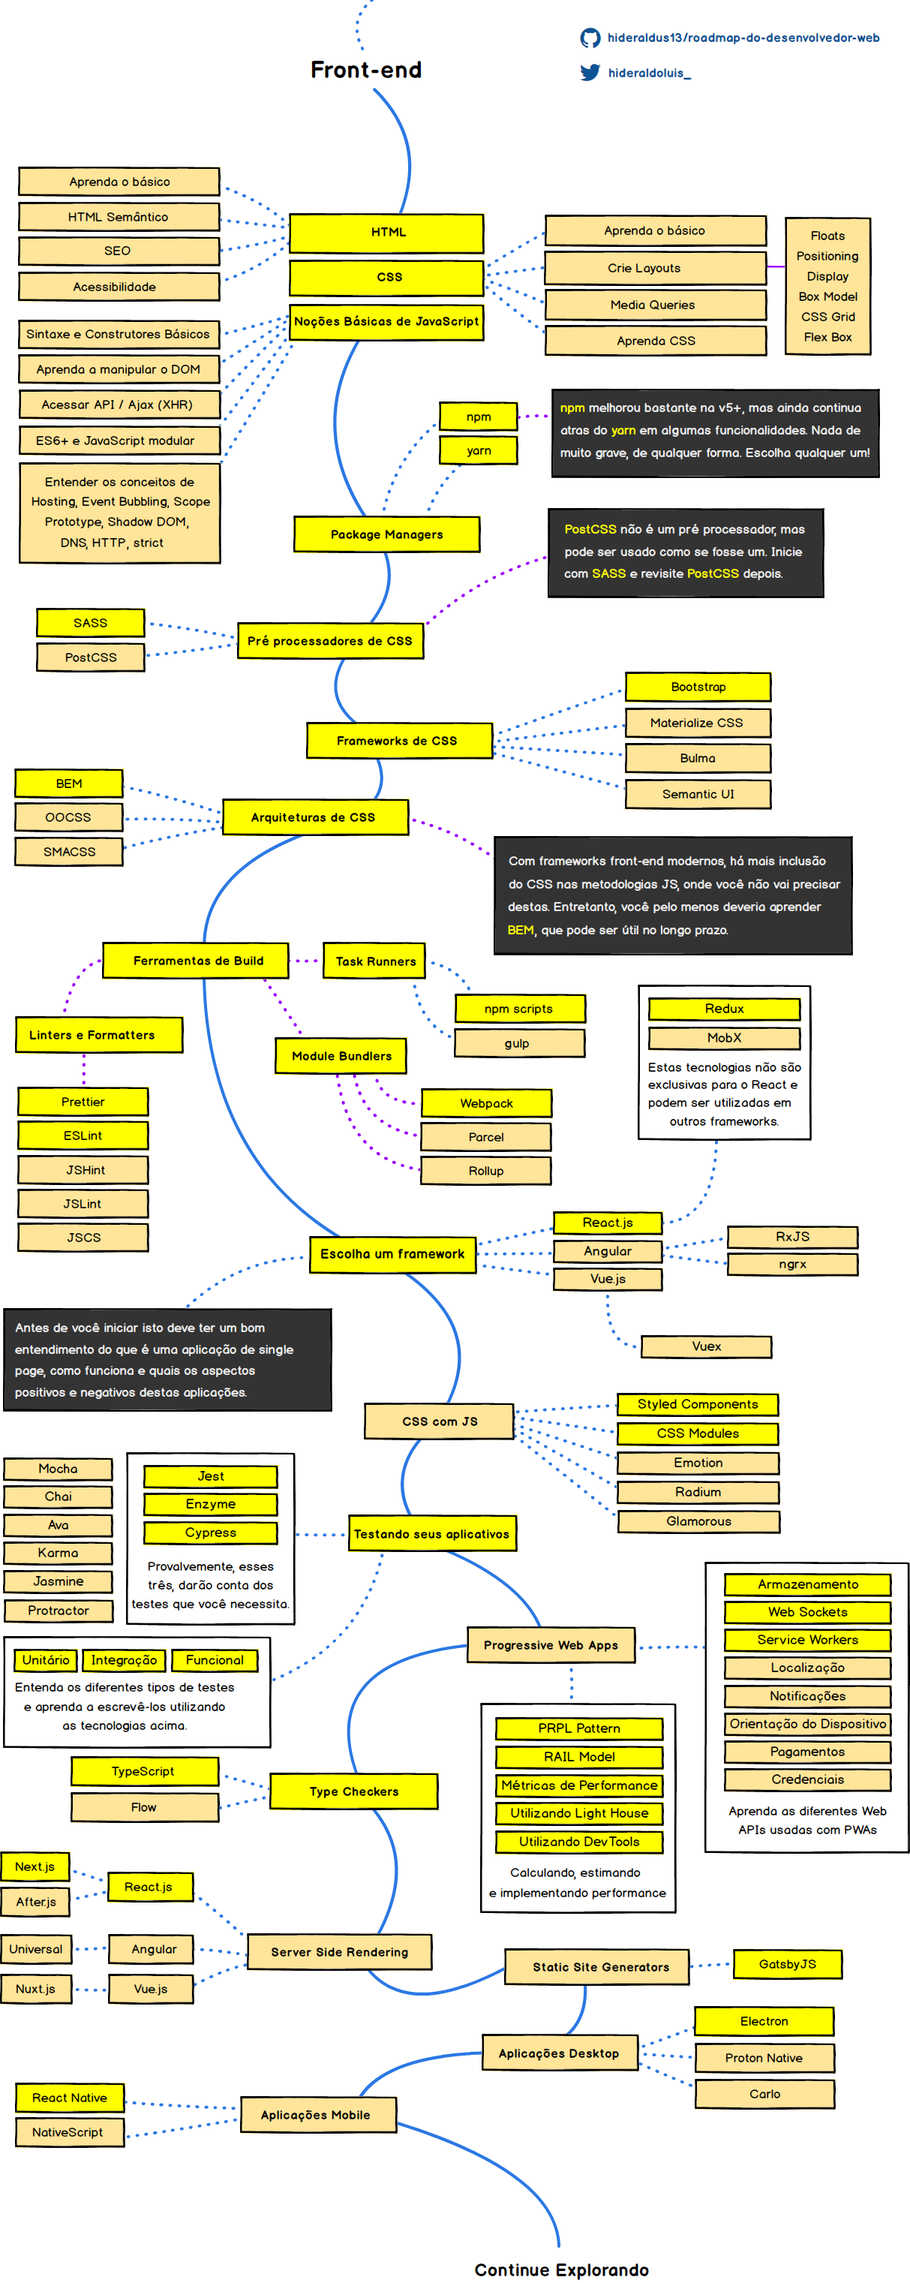
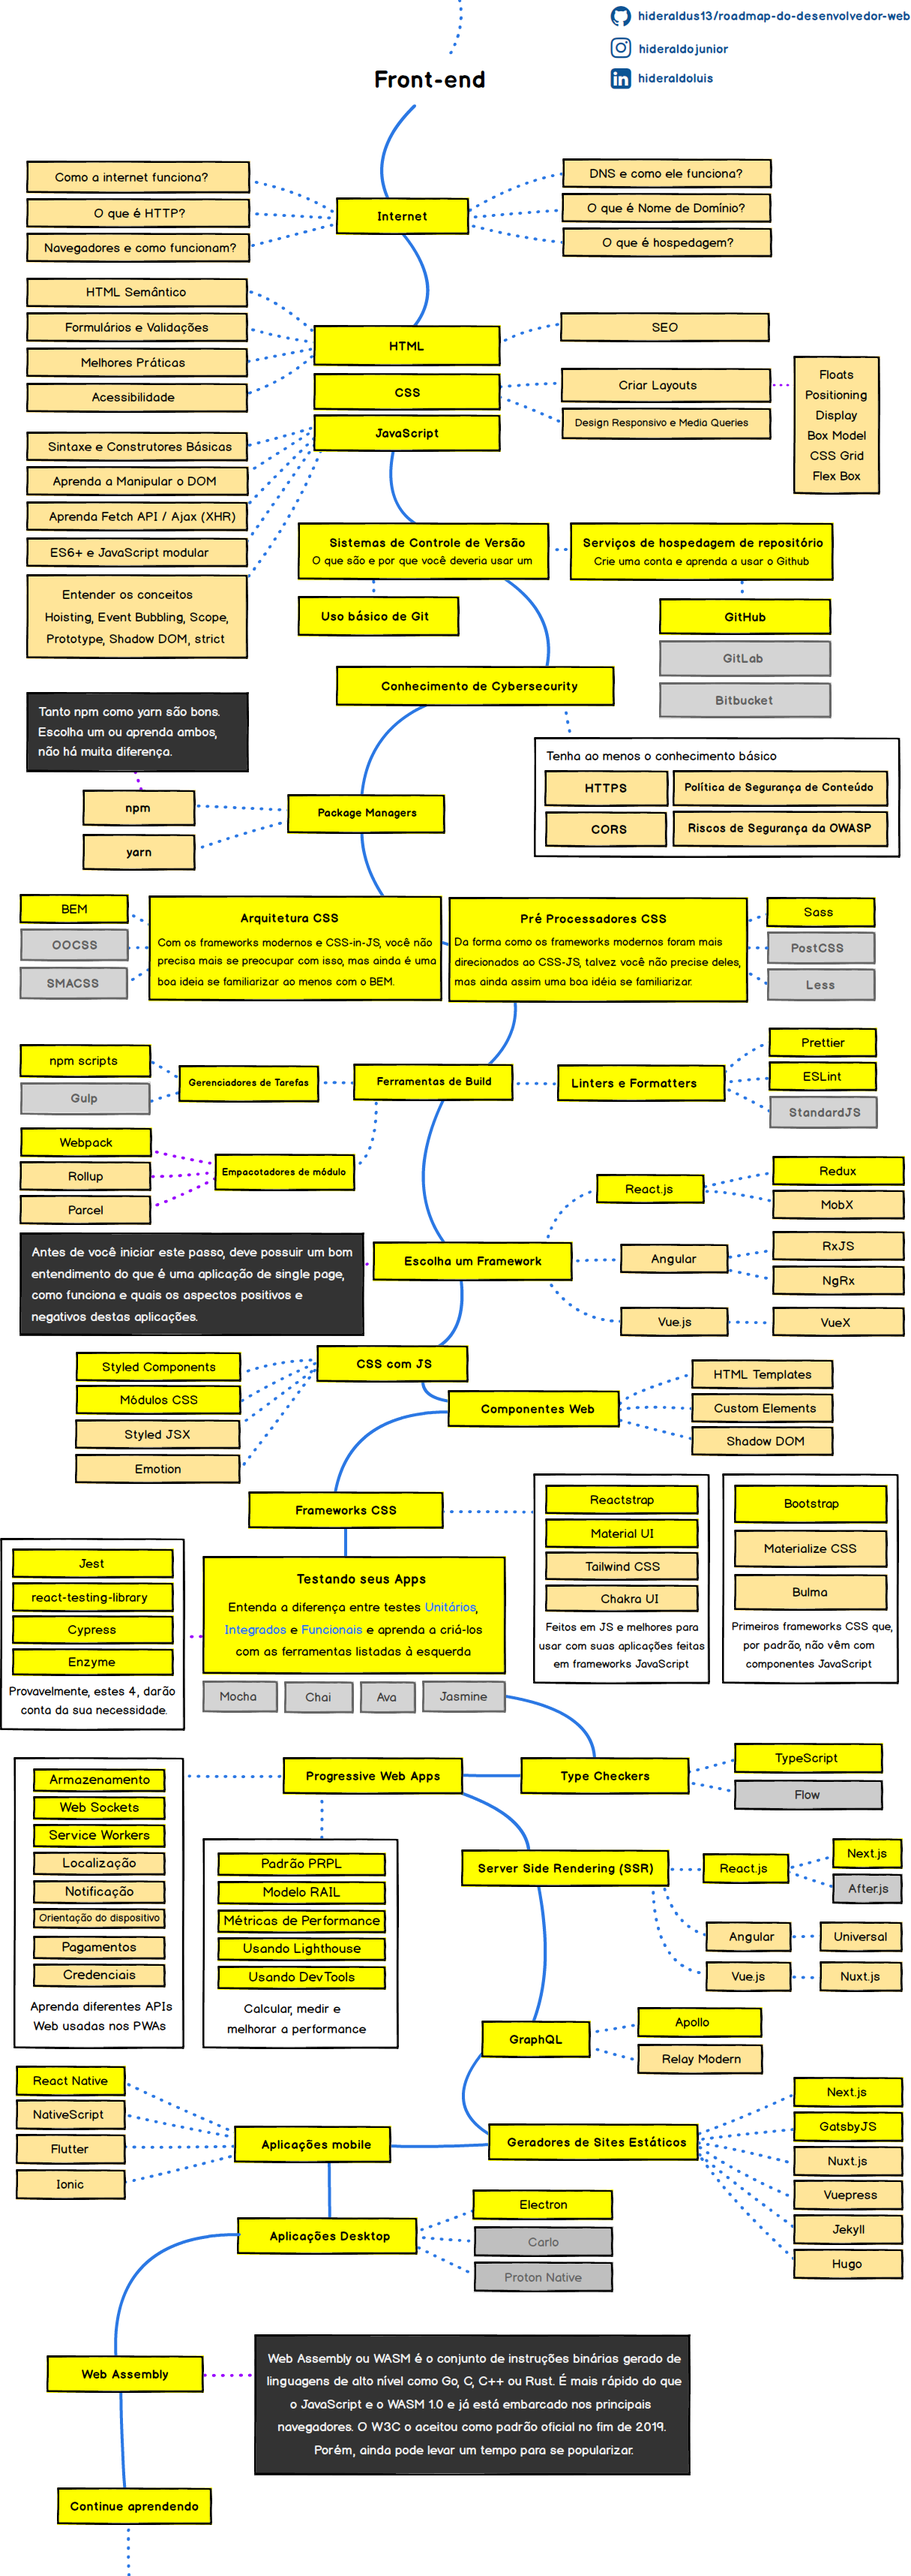
att frontend

diff --git a/README.md b/README.md
@@ -1,3 +1,11 @@
+# ESTE ROADMAP ESTÁ EM ATUALIZAÇÃO 
+- [x] Intro
+- [x] Frontend
+- [ ] Backend
+- [ ] DevOps
+
+Para acessar a versão 2019 ![clique aqui](./archive/archive.md)
+
 <p align="center">
   <a href="https://github.com/hideraldus13/roadmap-do-desenvolvedor-web">
     <img src="https://i.imgur.com/Uid1O3A.png" alt="Roadmap do Desenvolvedor Web" width="96" height="96">
